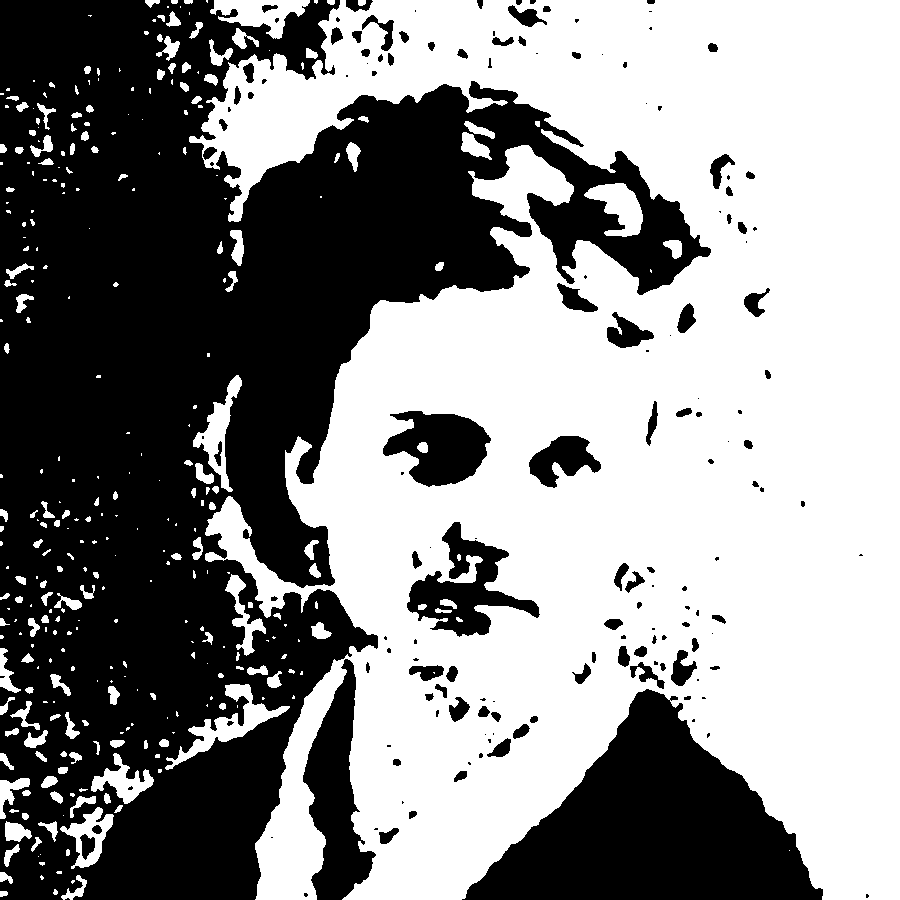
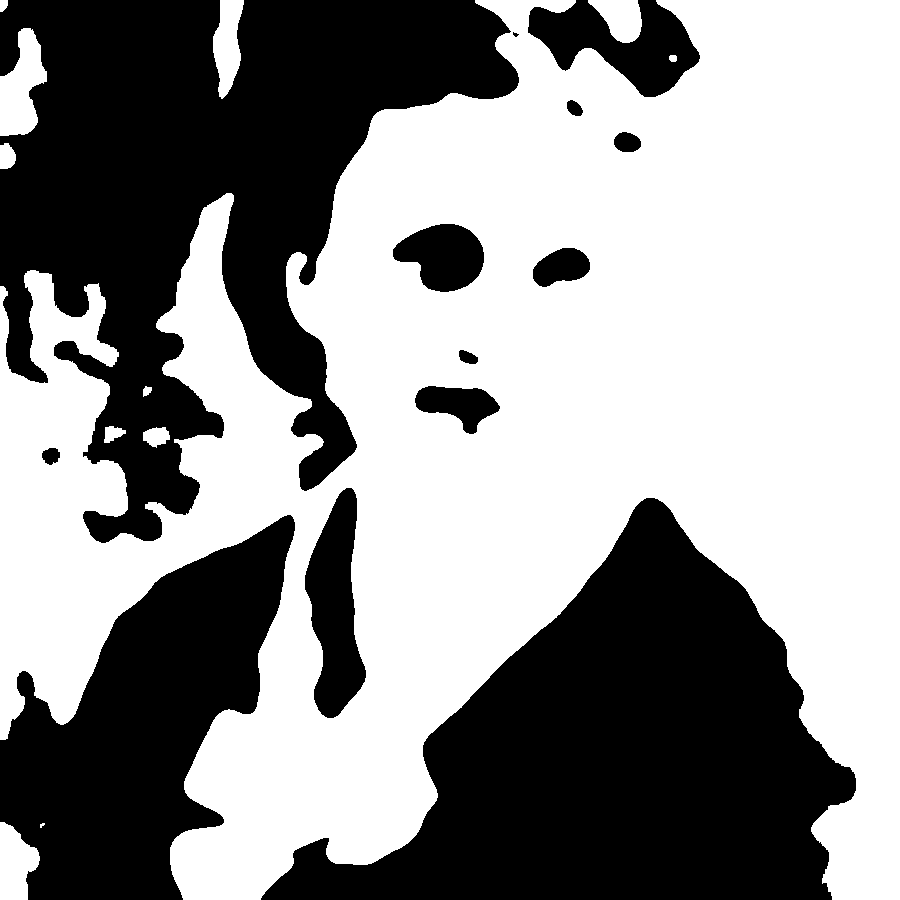
Fix portrait rendering: encode masks in alpha, not opaque RGB
The "colored squares" bug: the app renders portraits via CSS mask-image,
and the 4 hand-made originals carry their silhouette in the alpha channel
(solid black RGB, shape lives in transparency). The mechanical pipeline was
producing plain opaque threshold PNGs with no alpha channel at all, so
browsers fell back to luminance-based masking — inverted and wrong for
every one of the 15 mechanically-generated portraits, not just the two
reported.

process-author-portraits.ts rewrite:
- Output is now a proper alpha-channel stencil (solid black RGB + alpha
  mask), matching the hand-made originals and what CategoryColumn/
  ReadingView's mask-image actually expects.
- Added a content-bounding-box crop (sharp's attention gravity picks which
  slice to keep but never zooms) so a subject that's small against a lot of
  blank source margin actually gets zoomed into.
- Added a blur pass before threshold, applied once at a consistent working
  resolution before any cropping, to suppress halftone/scan-dot noise in
  older reproductions — this rescued Thoreau and Melville, previously
  discarded as too noisy.
- Background-polarity detection switched from corner-sampling to whole-
  image majority vote — corner sampling breaks once a tight crop's own
  corners land on subject material instead of true background.
- Fixed two sharp gotchas found along the way: reloading a raw single-
  channel buffer into a new sharp() instance silently promotes it back to
[…]

diff --git a/scripts/process-author-portraits.ts b/scripts/process-author-portraits.ts
@@ -6,48 +6,165 @@ const SOURCE_DIR = path.join(process.cwd(), "public", "authors", "_source");
 const OUTPUT_DIR = path.join(process.cwd(), "public", "authors");
 const SIZE = 900;
 const THRESHOLD = 128;
+// Sources vary wildly in native resolution (a tight 683x910 crop next to a
+// 2400x3059 scan) — resizing everyone down to the same working size first
+// means a fixed blur radius removes a comparable amount of noise for all of
+// them, rather than doing nothing on a huge source and then getting
+// reapplied on top of crop-magnified noise later.
+const WORKING_SIZE = 1200;
+const BLUR_SIGMA = 2.2;
+// A row/column counts as "content" once at least this fraction of it is ink
+// — filters out stray speckle noise from defining the crop box.
+const CONTENT_DENSITY = 0.004;
+// How much room to leave around the tight content box so a crop doesn't
+// clip right up against hair/shoulders.
+const CROP_PADDING = 1.35;
+
+type Box = { left: number; top: number; width: number; height: number };
 
 /**
- * Turns a raw Wikipedia portrait into the site's flat black-and-white mark:
- * square crop biased toward the most "interesting" region (sharp's built-in
- * attention strategy — a reasonable stand-in for face-centering without
- * running actual face detection), normalized contrast, then a hard
- * black/white threshold. Source photos vary — some have a dark background
- * (old daguerreotypes/engravings), some light — so after thresholding, the
- * four corners are sampled and the image is inverted if they came out
- * mostly black, so every output reads as "black mark on white ground" like
- * the hand-curated originals, regardless of the source's own polarity.
+ * Which of {0, 255} is background rather than subject, by simple majority
+ * of the whole buffer. Corner-only sampling breaks once a crop has zoomed
+ * in tight enough that the crop's own corners land on the subject instead
+ * of background (hair/shoulders reaching the frame edge, or — as with one
+ * source photo here — a dark vignette baked into the original print);
+ * background reliably occupies more than half the frame at the padding
+ * this script crops with, even for a tight portrait.
+ */
+function backgroundValue(buf: Buffer): 0 | 255 {
+  let count255 = 0;
+  for (let i = 0; i < buf.length; i++) {
+    if (buf[i] === 255) count255++;
+  }
+  return count255 > buf.length / 2 ? 255 : 0;
+}
+
+/**
+ * Tight bounding box of "ink" (non-background) pixels. sharp's `cover` +
+ * attention gravity never zooms — it only picks which slice of the
+ * already-framed source to keep — so a source photo with a lot of blank
+ * mount/backdrop around a small subject stays small forever. Finding the
+ * actual content and cropping to it is what makes zooming in possible.
+ */
+function contentBox(buf: Buffer, width: number, height: number, bg: 0 | 255): Box | null {
+  const rowCount = new Array(height).fill(0);
+  const colCount = new Array(width).fill(0);
+  for (let y = 0; y < height; y++) {
+    const base = y * width;
+    for (let x = 0; x < width; x++) {
+      if (buf[base + x] !== bg) {
+        rowCount[y]++;
+        colCount[x]++;
+      }
+    }
+  }
+
+  const top = rowCount.findIndex((c) => c / width > CONTENT_DENSITY);
+  let bottom = -1;
+  for (let y = height - 1; y >= 0; y--) {
+    if (rowCount[y] / width > CONTENT_DENSITY) {
+      bottom = y;
+      break;
+    }
+  }
+  const left = colCount.findIndex((c) => c / height > CONTENT_DENSITY);
+  let right = -1;
+  for (let x = width - 1; x >= 0; x--) {
+    if (colCount[x] / height > CONTENT_DENSITY) {
+      right = x;
+      break;
+    }
+  }
+
+  if (top < 0 || bottom < 0 || left < 0 || right < 0) return null;
+  return { left, top, width: right - left + 1, height: bottom - top + 1 };
+}
+
+/**
+ * Expands a content box into a padded square crop region, clamped to the
+ * image bounds. `side` is floored and left/top derived from it with the
+ * same integer arithmetic (never independently rounded) so left+side and
+ * top+side can never overflow the buffer by the stray pixel that made
+ * sharp's extract() throw "bad extract area" here before.
+ */
+function squareCropFor(box: Box, imgWidth: number, imgHeight: number): Box {
+  const cx = box.left + box.width / 2;
+  const cy = box.top + box.height / 2;
+  const side = Math.floor(Math.min(Math.max(box.width, box.height) * CROP_PADDING, imgWidth, imgHeight));
+  const left = Math.max(0, Math.min(Math.floor(cx - side / 2), imgWidth - side));
+  const top = Math.max(0, Math.min(Math.floor(cy - side / 2), imgHeight - side));
+  return { left, top, width: side, height: side };
+}
+
+/**
+ * Produces the site's actual portrait format: solid black RGB with the
+ * silhouette carried entirely in the alpha channel (opaque = ink,
+ * transparent = background) — matching the 4 hand-made originals, which is
+ * what components/CategoryColumn.tsx and ReadingView.tsx expect from
+ * `mask-image` (browsers only fall back to luminance masking when the
+ * source image has no alpha channel at all, which a plain opaque threshold
+ * PNG was doing wrong before).
  */
 async function processOne(sourcePath: string, destPath: string): Promise<void> {
-  const thresholded = await sharp(sourcePath)
-    .resize({ width: SIZE, height: SIZE, fit: "cover", position: sharp.strategy.attention })
+  // One smoothing pass, done once, before any cropping decision: flatten
+  // (a source PNG's own alpha would otherwise leave grayscale()'s raw
+  // output at 2 bytes/pixel and break every buf[y*width+x] index below),
+  // resize to a shared working scale, then blur to suppress halftone/
+  // scan-dot noise before threshold() turns every stray dot into a hard
+  // black speck. Cropping *this* (already-smoothed) buffer next, rather
+  // than re-blurring after a crop has already magnified the noise pattern,
+  // is what makes the blur actually work regardless of how tight the crop
+  // ends up being.
+  const smoothed = sharp(sourcePath)
+    .flatten({ background: { r: 255, g: 255, b: 255 } })
+    .resize({ width: WORKING_SIZE, height: WORKING_SIZE, fit: "inside", withoutEnlargement: true })
+    .blur(BLUR_SIGMA)
     .grayscale()
-    .normalize()
+    .normalize();
+  // Threshold straight off the already-grayscale `smoothed` pipeline, not a
+  // sharp instance reconstructed from a raw buffer — the latter came back
+  // 3 channels instead of 1 (silently tripling the buffer length and
+  // corrupting every width/height-indexed lookup below).
+  const { data: roughBinary, info: roughInfo } = await smoothed
+    .clone()
     .threshold(THRESHOLD)
+    .raw()
+    .toBuffer({ resolveWithObject: true });
+  const { width, height } = roughInfo;
+
+  const roughBg = backgroundValue(roughBinary);
+  const box = contentBox(roughBinary, width, height, roughBg);
+  const crop = box ? squareCropFor(box, width, height) : null;
+
+  // sharp rejects extract() -> resize() chained directly onto a pipeline
+  // that already had an earlier resize() in it ("bad extract area"), so the
+  // crop has to be materialized to a buffer first and the final resize run
+  // as a fresh pipeline. Reloading raw bytes as a new sharp() instance
+  // silently promotes them back to 3-channel sRGB unless grayscale() is
+  // re-asserted immediately — same reason the rough pass above threshold()s
+  // straight off `smoothed` instead of a reloaded buffer.
+  const croppedGray = crop ? await smoothed.clone().extract(crop).raw().toBuffer({ resolveWithObject: true }) : null;
+  const finalPipeline = croppedGray
+    ? sharp(croppedGray.data, {
+        raw: { width: croppedGray.info.width, height: croppedGray.info.height, channels: 1 },
+      }).grayscale()
+    : smoothed.clone();
+  const { data: finalBinary } = await finalPipeline
+    .resize(SIZE, SIZE, { fit: "cover" })
+    .threshold(THRESHOLD)
+    .raw()
+    .toBuffer({ resolveWithObject: true });
+  const finalBg = backgroundValue(finalBinary);
+
+  const alpha = Buffer.alloc(SIZE * SIZE);
+  for (let i = 0; i < finalBinary.length; i++) {
+    alpha[i] = finalBinary[i] === finalBg ? 0 : 255;
+  }
+
+  await sharp({ create: { width: SIZE, height: SIZE, channels: 3, background: { r: 0, g: 0, b: 0 } } })
+    .joinChannel(alpha, { raw: { width: SIZE, height: SIZE, channels: 1 } })
     .png()
-    .toBuffer();
-
-  const corner = 60;
-  const img = sharp(thresholded);
-  const corners = await Promise.all(
-    [
-      { left: 0, top: 0 },
-      { left: SIZE - corner, top: 0 },
-      { left: 0, top: SIZE - corner },
-      { left: SIZE - corner, top: SIZE - corner },
-    ].map(({ left, top }) =>
-      img
-        .clone()
-        .extract({ left, top, width: corner, height: corner })
-        .stats()
-        .then((s) => s.channels[0].mean)
-    )
-  );
-  const cornerMean = corners.reduce((a, b) => a + b, 0) / corners.length;
-  const backgroundIsDark = cornerMean < 128;
-
-  const pipeline = sharp(thresholded);
-  await (backgroundIsDark ? pipeline.negate({ alpha: false }) : pipeline).png().toFile(destPath);
+    .toFile(destPath);
 }
 
 async function main() {
@@ -57,6 +174,7 @@ async function main() {
     return;
   }
 
+  const force = process.argv.includes("--force");
   const files = readdirSync(SOURCE_DIR).filter((f) => /\.(jpe?g|png)$/i.test(f));
   const processedSlugs: string[] = [];
   const skipped: string[] = [];
@@ -65,7 +183,7 @@ async function main() {
     const slug = path.basename(file, path.extname(file));
     const destPath = path.join(OUTPUT_DIR, `${slug}.png`);
 
-    if (existsSync(destPath)) {
+    if (existsSync(destPath) && !force) {
       skipped.push(slug);
       continue;
     }
@@ -80,12 +198,14 @@ async function main() {
   }
 
   if (skipped.length > 0) {
-    console.log(`\nSkipped (already have a hand-reviewed public/authors/<slug>.png): ${skipped.join(", ")}`);
+    console.log(
+      `\nSkipped (public/authors/<slug>.png already exists — pass --force to regenerate): ${skipped.join(", ")}`
+    );
   }
   console.log(
-    `\nProcessed ${processedSlugs.length} portrait(s). This is a mechanical, unreviewed pass (attention-crop + ` +
-      `threshold, no human judgment on framing) — glance over each in public/authors/ and re-crop/redo by hand ` +
-      `if a specific one looks bad before treating it as final. Slugs: ${processedSlugs.join(", ") || "(none)"}`
+    `\nProcessed ${processedSlugs.length} portrait(s). This is a mechanical, unreviewed pass — glance over each ` +
+      `in public/authors/ and re-crop/redo by hand if a specific one looks bad before treating it as final. ` +
+      `Slugs: ${processedSlugs.join(", ") || "(none)"}`
   );
 }
 

diff --git a/lib/authorPortraits.ts b/lib/authorPortraits.ts
@@ -14,15 +14,21 @@
  *
  * The four originals were hand-processed. The rest came from
  * `npm run fetch-author-portrait` + `scripts/process-author-portraits.ts`
- * (auto-crop toward the most "interesting" region + threshold) — a
- * mechanical pass, not a human eye, so it doesn't bat 1.000: run against
- * all 26 catalog authors, 8 came out unusable (subject too small against a
- * blank-margin source photo, or a degraded/halftone scan) and were deleted
- * rather than shipped looking broken — Dickinson, Chesterton, Thoreau,
- * Melville, Keats, O. Henry, Whitman, and Shakespeare currently have no
- * portrait for that reason, not because one wasn't attempted. Re-run
- * fetch + process for any of them, by hand, whenever someone wants to sit
- * down and crop a better source image.
+ * (content-box crop toward the actual subject, not just sharp's
+ * non-zooming attention gravity, then a denoising blur before threshold) —
+ * a mechanical pass, not a human eye, so it doesn't bat 1.000: run against
+ * all 26 catalog authors, 6 came out unusable and were deleted rather than
+ * shipped looking broken — Dickinson (a dark vignette baked into the
+ * original print fooled the crop into framing almost nothing), Chesterton
+ * (clothing dominates the frame past what background-detection can
+ * recover from), Keats (the Wikipedia lead image is a memorial statue, not
+ * a headshot), O. Henry (source too degraded to threshold cleanly), Whitman
+ * (the actual face never registers as a distinct region from the source's
+ * tonal range), and Shakespeare (too little contrast across the canvas for
+ * a bounding box to lock onto) currently have no portrait for that reason,
+ * not because one wasn't attempted. Re-run fetch + process for any of
+ * them, by hand, whenever someone wants to sit down and crop a better
+ * source image.
  */
 const AUTHORS_WITH_PORTRAIT = new Set<string>([
   "Edgar Allan Poe",
@@ -33,6 +39,8 @@ const AUTHORS_WITH_PORTRAIT = new Set<string>([
   "Christina Rossetti",
   "Francis Bacon",
   "Guy de Maupassant",
+  "Henry David Thoreau",
+  "Herman Melville",
   "Kate Chopin",
   "Mark Twain",
   "Percy Bysshe Shelley",
